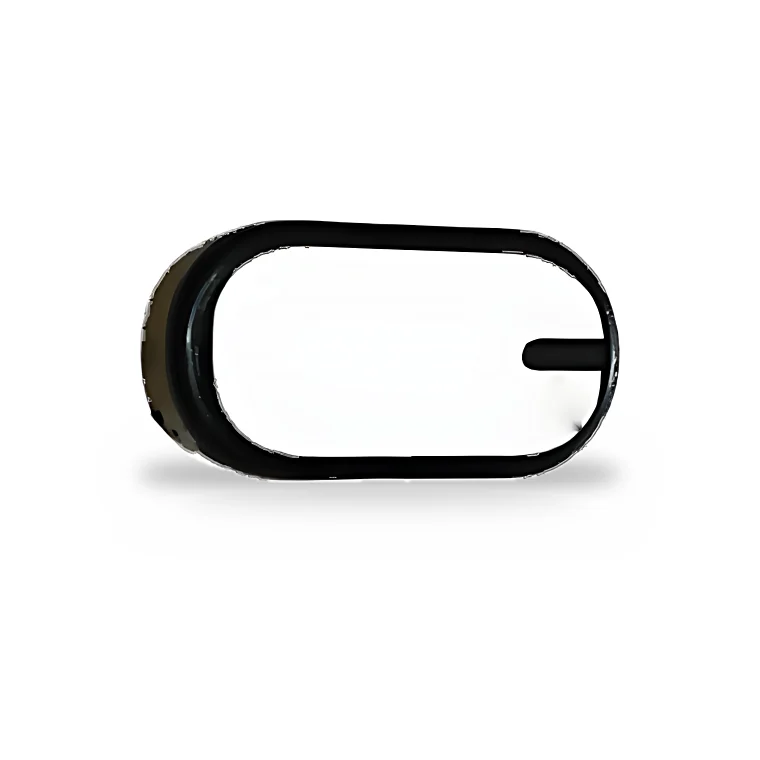
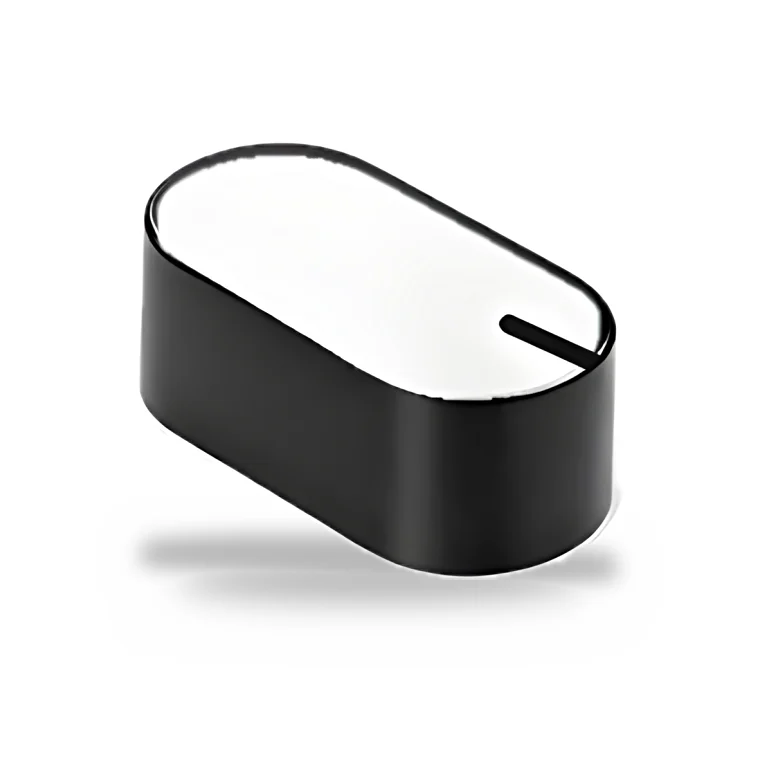
Sleek Series from one photo: Painted as shot, Black, Sticker, Copper, Pink
The black oval photo is the Painted knob. recolor.py derives Black (paint
mark removed), Sticker (white top inside the black rim, black slot line),
and recolours Black into Copper and Pink.

Changed region(s): [[0.1816, 0.1816, 0.8171, 0.8171]]

diff --git a/scripts/recolor.py b/scripts/recolor.py
@@ -14,6 +14,7 @@ R = 'scripts/replacements'
 # metal and keep a dark inlay as it is)
 JOBS = [
     ('Hob-Series', 'HobSeries-Grey', ['HobSeries-Golden', 'HobSeries-Natural', 'HobSeries-Copper'], False),
+    ('Sleek-Series', 'Sleekseries-Black', ['Sleekseries-Copper', 'Sleekseries-Pink'], False),
     ('Metal-Series', 'MetalSeries-Model-2-Copper', ['MetalSeries-Model-2-Golden', 'MetalSeries-Model-2-Black'], True),
 ]
 
@@ -86,6 +87,49 @@ def recolor(folder, base, finishes, body_only):
         print('wrote', name)
 
 
+def sleek():
+    """Sleek Series from one photo of the painted knob (scripts/sources/sleek-oval.png):
+    Painted as shot, Black with the white paint mark removed, Sticker with a white
+    top inside the black rim and a black slot line, as on SR's sticker knob."""
+    im = cv2.imread('scripts/sources/sleek-oval.png')
+    g = cv2.cvtColor(im, cv2.COLOR_BGR2GRAY)
+    S = ndimage.binary_fill_holes(ndimage.binary_opening(g < 215, iterations=1))
+    d = f'{R}/Sleek-Series'
+    cv2.imwrite(f'{d}/Sleekseries-Painted.png', im)
+    # the paint mark: the largest bright blob well inside the part
+    inner = ndimage.binary_erosion(S, iterations=8)
+    lab, n = ndimage.label((g > 150) & inner)
+    sizes = ndimage.sum(np.ones_like(g), lab, range(1, n + 1))
+    mark = lab == (int(np.argmax(sizes)) + 1)
+    black = cv2.inpaint(im, ndimage.binary_dilation(mark, iterations=3).astype(np.uint8) * 255, 5, cv2.INPAINT_TELEA)
+    cv2.imwrite(f'{d}/Sleekseries-Black.png', black)
+    # top face: points that stay inside the silhouette when pushed down by the side height
+    D = 64
+    T = np.ones_like(S)
+    for k in range(D + 1):
+        T &= np.roll(S, -k, 0)
+    face = ndimage.binary_erosion(T, iterations=5)  # leave a black rim
+    a = cv2.GaussianBlur(face.astype(np.float32), (0, 0), 0.8)[..., None]
+    shade = (cv2.GaussianBlur(g.astype(np.float32), (0, 0), 6) / 255.0)[..., None]
+    white = np.clip(238 + shade * 40, 0, 250)
+    sticker = black.astype(np.float32) * (1 - a) + white * a
+    # black slot line from the mark's position out to the rim, along the mark's long axis
+    ys, xs = np.nonzero(mark)
+    cy, cx = ys.mean(), xs.mean()
+    cov = np.cov(np.vstack([xs - cx, ys - cy]))
+    vx, vy = np.linalg.eigh(cov)[1][:, -1]
+    if vx < 0: vx, vy = -vx, -vy
+    p0 = (int(cx - vx * 9), int(cy - vy * 9))
+    p1 = (int(cx + vx * 40), int(cy + vy * 40))
+    line = np.zeros(g.shape, np.uint8)
+    cv2.line(line, p0, p1, 255, 6, cv2.LINE_AA)
+    la = (line.astype(np.float32) / 255 * (ndimage.binary_dilation(face, iterations=3)))[..., None]
+    sticker = sticker * (1 - la) + 18 * la
+    cv2.imwrite(f'{d}/Sleekseries-Sticker.png', sticker.clip(0, 255).astype(np.uint8))
+    print('wrote Sleek Painted, Black, Sticker')
+
+
+sleek()
 for job in JOBS:
     recolor(*job)
 for folder, base, name in SAME:
